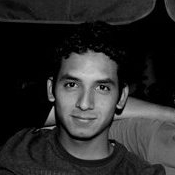
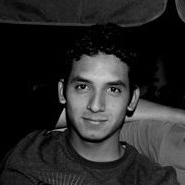
update App

diff --git a/public/css/allenjoseph.css b/public/css/allenjoseph.css
@@ -6,6 +6,7 @@ html {
 body {
 	font-family: 'Open Sans Condensed', sans-serif;
 	background: #F4F4F4;
+	background-image: url('../img/whitediamond.png');
 }
 
 h1, h2, h3 {
@@ -139,6 +140,7 @@ header .header-info {
 
 .section-main {
 	background: #F4F4F4;
+	background-image: url('../img/whitediamond.png');
 	border-bottom: 1px solid #ddd;
 	display: block;
 	min-height: 500px;

diff --git a/views/index.html b/views/index.html
@@ -29,7 +29,7 @@
       <div class="large-9 medium-8 columns">        
         <figure>
           <div>
-            <img src="img/social2.jpg" alt="Allen Joseph Developer">
+            <img src="img/social.jpg" alt="Allen Joseph Developer">
           </div>
         </figure>
         <div class="header-info">
